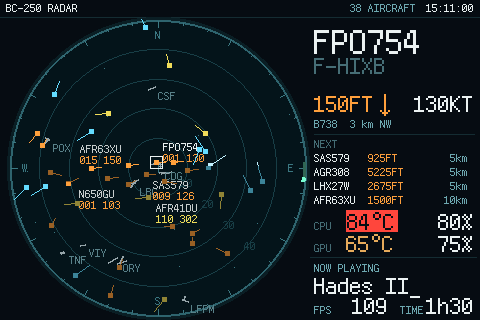
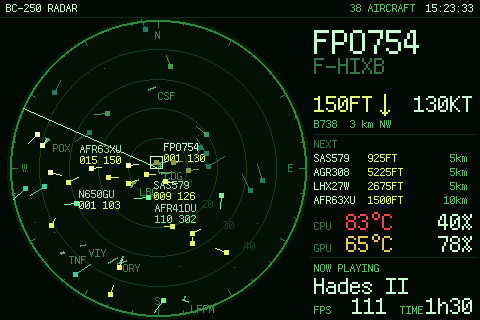
Radar: a real sweeping beam in military green
The sweep is a full-length 1 px beam again, at 8 frames a second and one
turn every 5 s; targets flash white as it passes and fade behind it. The
radar's changed-pixel rectangles are cut in 10-row tiles and stacked ones
are merged when that saves a command, so the beam costs about 30% of the
screen's link. Military green scope, rings, map and panel.

diff --git a/make_theme.py b/make_theme.py
@@ -86,10 +86,10 @@ SKINS = {
     "nixie": dict(folder="BC250-Nixie", bg=(10, 9, 8), dim=(120, 95, 58), mid=(190, 150, 85), value=(255, 150, 60),
                   accent=(255, 110, 40), cold=(255, 150, 60), hot=(255, 100, 30), alert=(255, 50, 40), ink=(10, 9, 8),
                   grid_dot=(40, 32, 26), palette=None),
-    # Radar: a dark scope with a turning sweep, aircraft coloured by altitude, white data tags
-    "radar": dict(folder="BC250-Radar", bg=(6, 12, 18), dim=(70, 110, 118), mid=(110, 170, 178), value=(235, 242, 242),
-                  accent=(255, 170, 60), cold=(100, 220, 255), hot=(255, 160, 60), alert=(255, 70, 60), ink=(6, 12, 18),
-                  grid_dot=(24, 62, 70), palette=None),
+    # Radar: a military green PPI scope with a turning sweep, targets in shades of green by altitude
+    "radar": dict(folder="BC250-Radar", bg=(2, 9, 4), dim=(50, 120, 70), mid=(90, 190, 110), value=(200, 255, 210),
+                  accent=(230, 255, 120), cold=(120, 255, 140), hot=(255, 190, 60), alert=(255, 70, 60), ink=(2, 9, 4),
+                  grid_dot=(14, 70, 28), palette=None),
 }
 SKIN_NAME = "phosphor"
 SKIN = SKINS[SKIN_NAME]
@@ -1765,10 +1765,11 @@ def nixie_theme(theme, title):
 # Radar artwork, map and theme
 # ---------------------------------------------------------------------------------------------------------------------
 RADAR = {}  # set by set_layout()
-RD_DISC, RD_RIM, RD_RING, RD_TICK = (4, 20, 26), (46, 100, 110), (24, 62, 70), (60, 120, 130)
-RD_COLOURS = dict(SWEEP=(120, 255, 210), LOW=(255, 160, 60), MID=(240, 220, 90), HIGH=(100, 220, 255),
-                  EMERGENCY=(255, 70, 60), TEXT=(235, 242, 242), LABEL=(110, 170, 178), DIM=(70, 110, 118),
-                  ROUTE=(255, 190, 90))
+RD_DISC, RD_RIM, RD_RING, RD_TICK = (2, 16, 6), (40, 140, 60), (14, 66, 28), (40, 130, 60)
+RD_LINE = (10, 42, 18)  # separators
+RD_COLOURS = dict(SWEEP=(150, 255, 160), LOW=(230, 255, 110), MID=(110, 255, 140), HIGH=(60, 205, 165),
+                  EMERGENCY=(255, 70, 60), TEXT=(200, 255, 210), LABEL=(90, 190, 110), DIM=(50, 120, 70),
+                  ROUTE=(230, 255, 110))
 OURAIRPORTS = "https://davidmegginson.github.io/ourairports-data/{}.csv"
 
 
@@ -1833,7 +1834,7 @@ def nice_step(km):
 
 def draw_scope(c, rings=True):
     cx, cy, r = RADAR["scope"]
-    c.d.ellipse((cx - r - 3, cy - r - 3, cx + r + 3, cy + r + 3), fill=(10, 30, 36))
+    c.d.ellipse((cx - r - 3, cy - r - 3, cx + r + 3, cy + r + 3), fill=(6, 26, 10))
     c.d.ellipse((cx - r, cy - r, cx + r, cy + r), fill=RD_DISC, outline=RD_RIM, width=2)
     if not rings:
         return
@@ -1857,13 +1858,13 @@ def draw_scope(c, rings=True):
                 anchor="ms", glow=False)
     airports, runways = RADAR["map"]
     for (x1, y1), (x2, y2) in runways:
-        c.d.line((cx + x1 * k, cy - y1 * k, cx + x2 * k, cy - y2 * k), fill=(150, 165, 170), width=2)
+        c.d.line((cx + x1 * k, cy - y1 * k, cx + x2 * k, cy - y2 * k), fill=(90, 175, 110), width=2)
     for x, y, label, kind in airports:
         px, py = cx + x * k, cy - y * k
         if kind == "small_airport":
             c.d.point((px, py), fill=RD_TICK)
         else:
-            c.label(round(px) + 6, round(py) + 12, label, (90, 130, 138), glow=False)
+            c.label(round(px) + 6, round(py) + 12, label, (60, 140, 80), glow=False)
     c.d.line((cx - 4, cy, cx + 4, cy), fill=RD_TICK)  # the radar's position
     c.d.line((cx, cy - 4, cx, cy + 4), fill=RD_TICK)
 
@@ -1871,16 +1872,16 @@ def draw_scope(c, rings=True):
 def render_background_radar(title):
     c = Canvas()
     c.label(6, HEADER_BL, title, SKIN["value"], glow=False)
-    c.d.line((0, HEADER_H + 1, W, HEADER_H + 1), fill=(20, 44, 50))
+    c.d.line((0, HEADER_H + 1, W, HEADER_H + 1), fill=RD_LINE)
     draw_scope(c)
     rd = RADAR
     lx1, ly1, lx2, ly2 = rd["list"]
     if rd["list_columns"] == 1:  # (portrait has no room for the heading)
         c.label(lx1, ly1 + 10, "NEXT", RD_COLOURS["DIM"], glow=False)
-    c.d.line((rd["card"][0], rd["card"][3] + 2, rd["card"][2], rd["card"][3] + 2), fill=(20, 44, 50))
+    c.d.line((rd["card"][0], rd["card"][3] + 2, rd["card"][2], rd["card"][3] + 2), fill=RD_LINE)
     for label, (x, bl, _, _) in zip(("CPU", "GPU"), rd["stats"]):
         c.label(x, bl, label, RD_COLOURS["DIM"], glow=False)
-    c.d.line((rd["prompt_line"][0], rd["prompt_line"][1], rd["prompt_line"][2], rd["prompt_line"][1]), fill=(20, 44, 50))
+    c.d.line((rd["prompt_line"][0], rd["prompt_line"][1], rd["prompt_line"][2], rd["prompt_line"][1]), fill=RD_LINE)
     return c.finish()
 
 
@@ -1888,7 +1889,7 @@ def render_splash_radar(title, layer="full"):
     sl = SPLASH_LAYOUT
     c = Canvas()
     c.label(6, HEADER_BL, title, SKIN["value"], glow=False)
-    c.d.line((0, HEADER_H + 1, W, HEADER_H + 1), fill=(20, 44, 50))
+    c.d.line((0, HEADER_H + 1, W, HEADER_H + 1), fill=RD_LINE)
     draw_scope(c, rings=layer == "full")
     lx, lb = sl["logo"]
     c.label(lx, lb, LOGO, SKIN["value"], size=M if len(LOGO) * CH[M] <= sl["panel_w"] else S, glow=False)
@@ -1904,7 +1905,7 @@ def render_splash_radar(title, layer="full"):
 def radar_spec():
     rd = RADAR
     spec = {"LAT": round(rd["center"][0], 5), "LON": round(rd["center"][1], 5), "RANGE_KM": rd["km"], "REFRESH": 6,
-            "PERIOD": 4, "FPS": 8, "TAGS": 8, "FONT": FONT, "SCOPE": list(rd["scope"]), "CARD": list(rd["card"]),
+            "PERIOD": 5, "FPS": 8, "TRAIL": 0, "TILE": 10, "TAGS": 8, "FONT": FONT, "SCOPE": list(rd["scope"]), "CARD": list(rd["card"]),
             "CARD_ROWS": rd["card_rows"], "CARD_STYLE": rd["card_style"], "LIST": list(rd["list"]),
             "LIST_BL": rd["list_bl"], "LIST_STEP": 14, "LIST_ROWS": rd["list_rows"], "LIST_COLUMNS": rd["list_columns"],
             "COUNT": list(rd["count"]), "BACKGROUND_IMAGE": "background.png"}

diff --git a/library/sensors/sensors_bc250.py b/library/sensors/sensors_bc250.py
@@ -882,7 +882,9 @@ class _Radar:
         self.lcd = _Screen(lcd, *base.size)
         self.memory = {}  # hex -> what the scope shows of it: position, data, when the sweep last passed
         self.angle = None
+        self.trail = []
         self.panel_state = None
+        self.lcd.TILE = int(spec.get("TILE", 10))  # short tiles hug a thin diagonal line (the sweep) better
 
     # -- data --------------------------------------------------------------------------------------------------------
     def colour(self, plane):
@@ -905,6 +907,7 @@ class _Radar:
         """Moves the blips the sweep passed over since the last frame, and forgets aircraft that are gone."""
         angle = (now / self.period * 360) % 360
         previous, self.angle = self.angle, angle
+        self.trail = (self.trail + [angle])[-4:]
         planes = {p["hex"]: p for p in _RadarFeed.aircraft}
         for hex_, plane in planes.items():
             x, y = self.now_position(plane, now)
@@ -931,11 +934,14 @@ class _Radar:
         layer = Image.new("RGB", frame.size, (0, 0, 0))
         d = ImageDraw.Draw(layer)
         ox, oy = self.cx - self.box[0], self.cy - self.box[1]
-        # the sweep: a bright arc orbiting the rim with a dimmer tail. A full-radius line would cost 5-10 KB per
-        # frame on the screen's link (every row it crosses); the arc is a few hundred pixels
-        rim = (ox - self.r + 1, oy - self.r + 1, ox + self.r - 1, oy + self.r - 1)
-        d.arc(rim, angle - 90 - 9, angle - 90 - 3, fill=_lerp((0, 0, 0), self.col["SWEEP"], 0.4), width=3)
-        d.arc(rim, angle - 90 - 3, angle - 90, fill=self.col["SWEEP"], width=4)
+        # the sweep line, and its afterglow at the positions of the last frames. A full-radius line costs every row
+        # it crosses on the screen's link, so it is 1 px wide and the afterglow is a few lines, not a filled wedge
+        trail = self.trail[-1 - int(self.spec.get("TRAIL", 1)):]
+        for i, a in enumerate(trail):
+            level = 1.0 if i == len(trail) - 1 else 0.25 + 0.3 * i / max(1, len(trail) - 1)
+            a = math.radians(a)
+            d.line((ox, oy, ox + (self.r - 1) * math.sin(a), oy - (self.r - 1) * math.cos(a)),
+                   fill=_lerp((0, 0, 0), self.col["SWEEP"], level))
         frame.paste(layer, (0, 0), _mask_of(layer, self.inside))
 
         d = ImageDraw.Draw(frame)
@@ -2066,7 +2072,7 @@ class _Screen:
         self.lcd.SetBrightness(level)
 
     @classmethod
-    def _rects(cls, changed):
+    def _rects(cls, changed, tile=None):
         """Rectangles (x1, y1, x2, y2) covering the True cells of a 2D mask: bands of changed rows, cut in tiles of
         TILE rows, each split where a wide run of columns is unchanged; runs lined up vertically are joined again."""
         import numpy
@@ -2082,8 +2088,8 @@ class _Screen:
         bands = runs(rows, cls.COMMAND_PX // changed.shape[1])
         rects, open_rects = [], {}  # open_rects: (x1, x2) -> rect ending on the row where the next tile starts
         for y1, y2 in bands:
-            for t1 in range(y1, y2, cls.TILE):
-                t2 = min(y2, t1 + cls.TILE)
+            for t1 in range(y1, y2, tile or cls.TILE):
+                t2 = min(y2, t1 + (tile or cls.TILE))
                 cols = numpy.flatnonzero(changed[t1:t2].any(axis=0))
                 if cols.size == 0:
                     continue
@@ -2096,6 +2102,20 @@ class _Screen:
                         rects.append(above)
                     open_rects[(x1, x2)] = above
         rects.sort(key=lambda r: (r[1], r[0]))
+        # stack rectangles that touch vertically when the pixels the union adds cost less than the command it saves
+        # (a steep line otherwise becomes one small rectangle per tile)
+        area = lambda r: (r[2] - r[0]) * (r[3] - r[1])
+        stacked = []
+        for r in rects:
+            for m in reversed(stacked[-16:]):
+                if m[3] == r[1] and m[0] <= r[2] and r[0] <= m[2]:
+                    union = [min(m[0], r[0]), m[1], max(m[2], r[2]), r[3]]
+                    if area(union) - area(m) - area(r) < cls.COMMAND_PX:
+                        m[:] = union
+                        break
+            else:
+                stacked.append(r)
+        rects = sorted(stacked, key=lambda r: (r[1], r[0]))
         if len(rects) > 4 * cls.MAX_RECTS:  # too scattered to sort out cheaply: whole bands
             rects = []
             for y1, y2 in bands:
@@ -2137,7 +2157,7 @@ class _Screen:
             self.shadow = new.copy()
             return
         old = self.shadow[y:y + h, x:x + w]
-        for x1, y1, x2, y2 in self._rects((new != old).any(axis=2)):
+        for x1, y1, x2, y2 in self._rects((new != old).any(axis=2), self.TILE):
             self._send(image.crop((x1, y1, x2, y2)), x + x1, y + y1)
         old[...] = new
 

diff --git a/README.md b/README.md
@@ -30,7 +30,7 @@ Eight themes for [turing-smart-screen-python](https://github.com/mathoudebine/tu
 
 ![nixie landscape](res/themes/BC250-Nixie/preview.png) ![nixie portrait](res/themes/BC250-Nixie/preview_portrait.png)
 
-**Radar** (`--theme radar`): live aircraft around a point you choose, from free community ADS-B data. A radar scope with range rings, the airports and runways in range, and a sweep orbiting the rim; each aircraft is a blip coloured by altitude (orange low, yellow mid, cyan high, red for an emergency squawk) with an ATC-style tag (callsign, flight level, speed), refreshed as the sweep passes. Beside it: the nearest flight in big letters (callsign, route, airline, altitude, speed, type, distance), the next four, CPU and GPU temperature and load, and what's playing.
+**Radar** (`--theme radar`): live aircraft around a point you choose, from free community ADS-B data. A military-green radar scope with range rings, the airports and runways in range, and a sweeping beam; each aircraft is a target that flashes as the beam passes and fades behind it, shaded by altitude (yellow-green low, green mid, teal high, red for an emergency squawk) with an ATC-style tag (callsign, flight level, speed). Beside it: the nearest flight in big letters (callsign, route, airline, altitude, speed, type, distance), the next four, CPU and GPU temperature and load, and what's playing.
 
 ![radar landscape](res/themes/BC250-Radar/preview.png) ![radar portrait](res/themes/BC250-Radar/preview_portrait.png)
 
